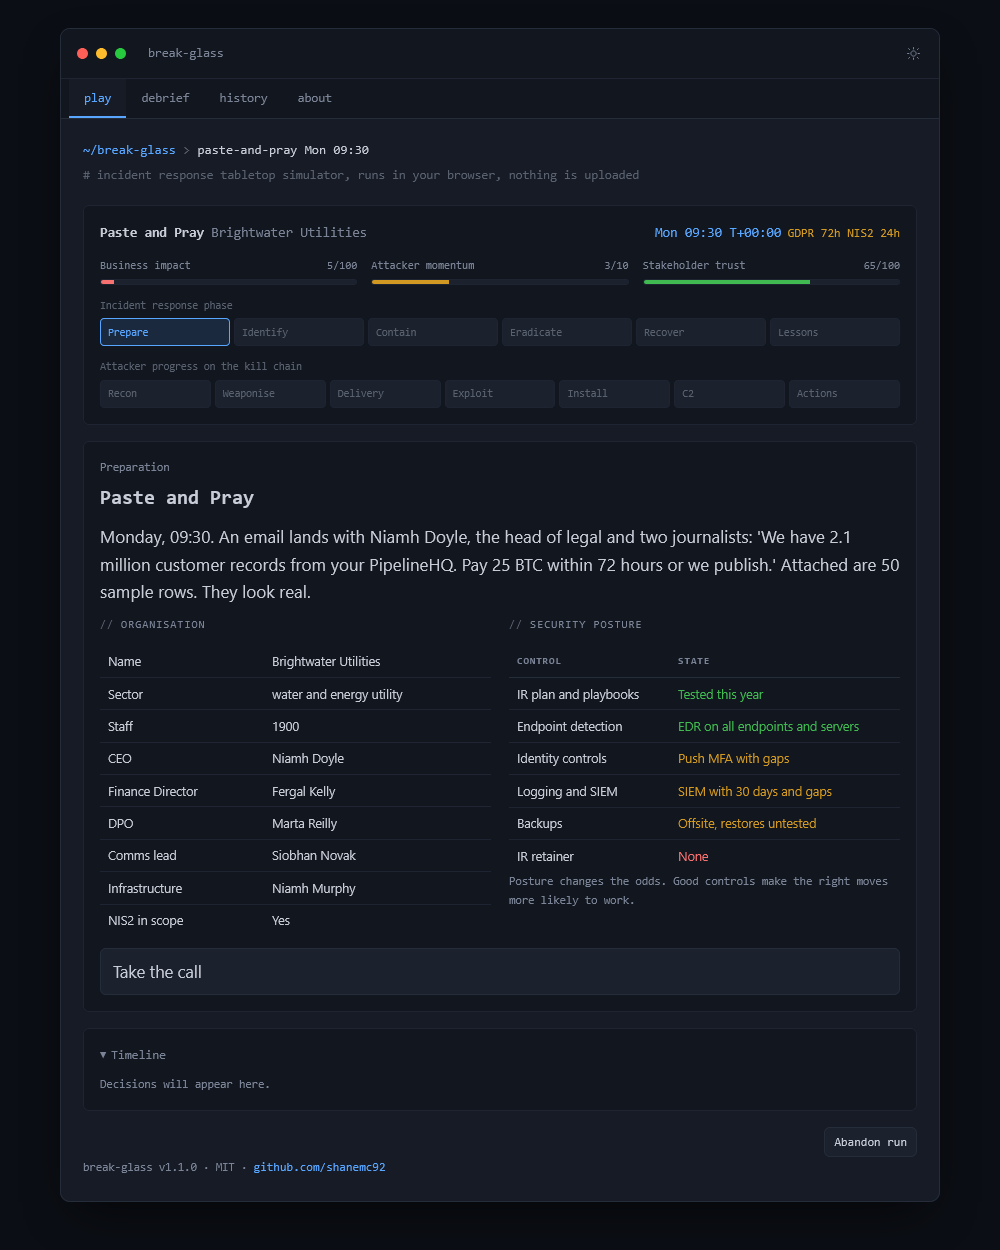
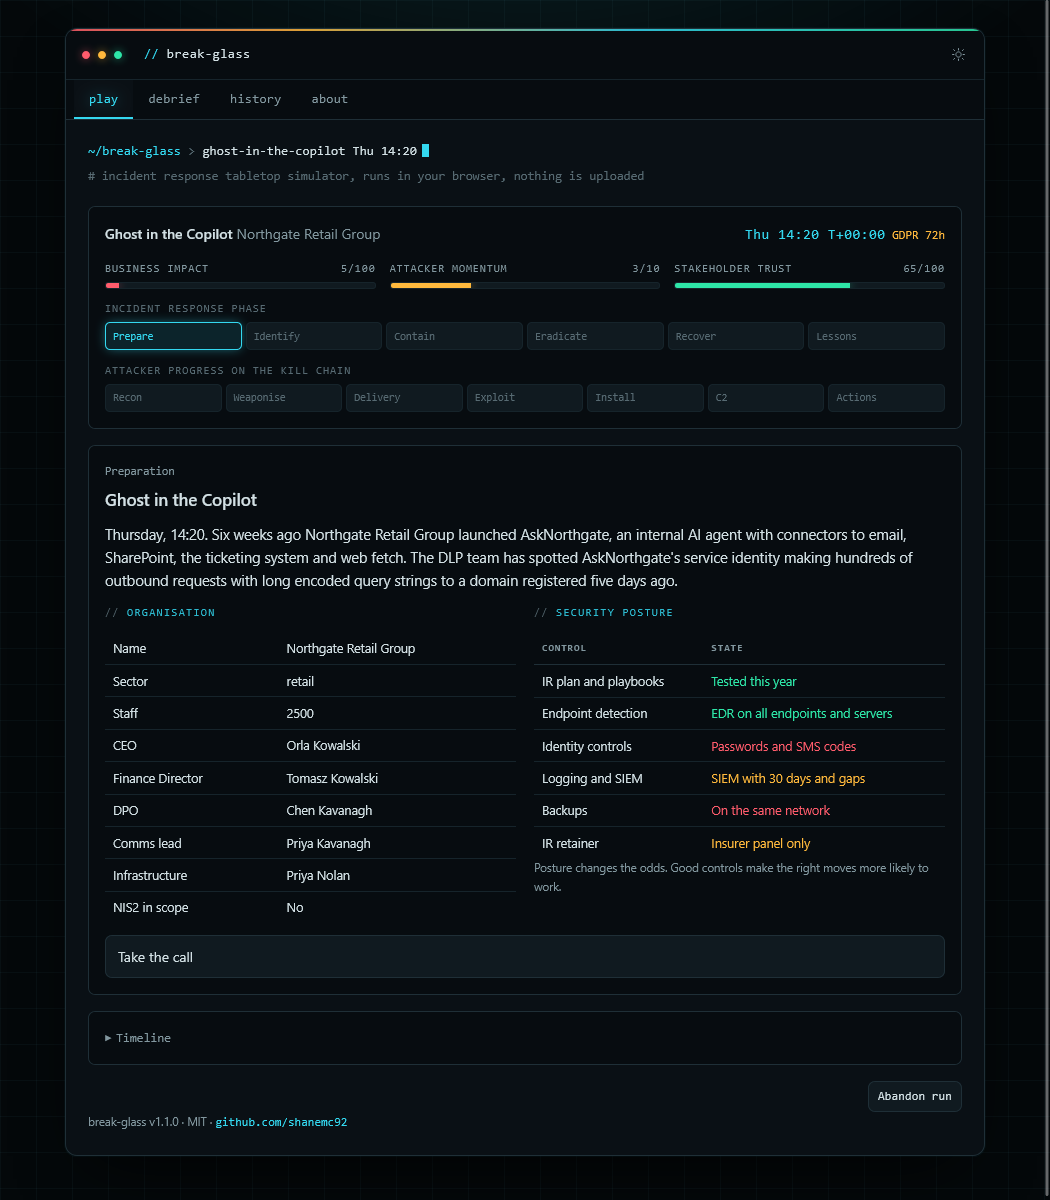
re-theme

diff --git a/index.html b/index.html
@@ -561,6 +561,185 @@ pre.art { margin: 0 0 12px; font-size: 11.5px; color: var(--fg-dim); }
     .debrief .panel { border: none; padding: 0 0 10px; }
     .score-big { font-size: 24px; }
 }
+
+/* ============================================================
+   break-glass theme
+   Its own look, separate from the shared tool themes: modern
+   sans for reading, monospace for the terminal chrome, cyan
+   ops palette on near-black. Loaded last so it wins.
+   ============================================================ */
+:root {
+    --mono: 'JetBrains Mono', 'Fira Code', ui-monospace, 'SF Mono', Consolas, monospace;
+    --sans: system-ui, -apple-system, "Segoe UI", Roboto, "Helvetica Neue", Arial, sans-serif;
+    --font: var(--sans);
+    --wrap: 920px;
+}
+
+/* ---------- Tokens: dark ops (default) ---------- */
+:root,
+html[data-theme="dark"] {
+    color-scheme: dark;
+    --bg:          #04080a;
+    --card:        #0a1015;
+    --sunken:      #070c10;
+    --raised:      #101a20;
+    --line:        #1f2f37;
+    --line-soft:   #16242b;
+    --fg:          #d2e0e4;
+    --fg-dim:      #82979f;
+    --fg-faint:    #576a72;
+    --accent:      #34d8f0;
+    --accent-soft: rgba(52, 216, 240, 0.12);
+    --accent-ink:  #02141a;
+    --toggle-on:   #2ee6a8;
+    --toggle-ink:  #01120c;
+    --bad:         #ff5c6c;
+    --warn:        #ffb93d;
+    --ok:          #2ee6a8;
+    --radius:      12px;
+    --radius-sm:   7px;
+    --shadow:      0 0 0 1px rgba(52, 216, 240, 0.04), 0 26px 70px -26px rgba(0, 0, 0, 0.9);
+    --grid:        rgba(120, 230, 255, 0.035);
+}
+
+/* ---------- Tokens: light ---------- */
+html[data-theme="light"] {
+    color-scheme: light;
+    --bg:          #e6ebed;
+    --card:        #ffffff;
+    --sunken:      #f2f6f7;
+    --raised:      #fafcfd;
+    --line:        #ccd8dc;
+    --line-soft:   #e2eaec;
+    --fg:          #0b1418;
+    --fg-dim:      #4f5d63;
+    --fg-faint:    #7d8c92;
+    --accent:      #0b7186;
+    --accent-soft: rgba(11, 113, 134, 0.10);
+    --accent-ink:  #ffffff;
+    --toggle-on:   #0d7a5b;
+    --toggle-ink:  #ffffff;
+    --bad:         #c32233;
+    --warn:        #9a5a00;
+    --ok:          #0d7a5b;
+    --radius:      12px;
+    --radius-sm:   7px;
+    --shadow:      0 1px 2px rgba(12, 24, 28, 0.06), 0 16px 40px -18px rgba(12, 24, 28, 0.26);
+    --grid:        rgba(11, 113, 134, 0.045);
+}
+
+/* ---------- Page ---------- */
+body {
+    font-family: var(--font);
+    font-size: 14px;
+    background-color: var(--bg);
+    background-image:
+        radial-gradient(820px 400px at 50% -140px, var(--accent-soft), transparent 72%),
+        linear-gradient(var(--grid) 1px, transparent 1px),
+        linear-gradient(90deg, var(--grid) 1px, transparent 1px);
+    background-size: auto, 36px 36px, 36px 36px;
+    background-attachment: fixed;
+}
+
+/* ---------- Terminal chrome: monospace ---------- */
+.titlebar-title, .tab, .prompt, .comment, .section-header span, label.f, th,
+.kicker, .strip div, .strip-label, .chip, .clock, .reg, .meter .lab, .log,
+pre, pre.art, code, .field, .btn, .opt .k, .opt .q, .score-big, .grade,
+.toggle-label, .empty, details summary {
+    font-family: var(--mono);
+}
+.btn { letter-spacing: 0.01em; }
+.note, .narr, .disc, .why, .node-title, .debrief h3, .debrief li, .debrief p { font-family: var(--sans); }
+
+/* ---------- Window: break-glass strip across the top ---------- */
+.container { position: relative; }
+.container::before {
+    content: '';
+    position: absolute;
+    inset: 0 0 auto 0;
+    height: 2px;
+    background: linear-gradient(90deg, var(--bad) 0%, var(--warn) 26%, var(--accent) 62%, var(--ok) 100%);
+    opacity: 0.85;
+    z-index: 2;
+}
+
+/* ---------- Title bar: status LEDs instead of window dots ---------- */
+.titlebar { padding-top: 12px; }
+.dot { width: 8px; height: 8px; }
+.dot:nth-child(1) { background: var(--bad);  box-shadow: 0 0 9px -1px var(--bad); }
+.dot:nth-child(2) { background: var(--warn); box-shadow: 0 0 9px -1px var(--warn); }
+.dot:nth-child(3) { background: var(--ok);   box-shadow: 0 0 9px -1px var(--ok); }
+.titlebar-title { letter-spacing: 0.06em; color: var(--fg); }
+.titlebar-title::before { content: '// '; color: var(--accent); }
+
+/* ---------- Tabs ---------- */
+.tab { letter-spacing: 0.04em; }
+html[data-theme="dark"] .tab[aria-selected="true"] { text-shadow: 0 0 14px rgba(52, 216, 240, 0.45); }
+
+/* ---------- Prompt line with a live cursor ---------- */
+.prompt { color: var(--fg-dim); }
+.prompt .path { color: var(--accent); }
+.prompt #promptTxt { color: var(--fg); }
+.prompt::after {
+    content: '';
+    display: inline-block;
+    width: 7px;
+    height: 13px;
+    margin-left: 5px;
+    vertical-align: -2px;
+    background: var(--accent);
+    animation: bgblink 1.1s steps(1) infinite;
+}
+@keyframes bgblink { 0%, 55% { opacity: 1; } 56%, 100% { opacity: 0; } }
+
+/* ---------- Panels and section labels ---------- */
+.panel { border-color: var(--line); }
+.section-header span { letter-spacing: 0.12em; color: var(--accent); opacity: 0.85; }
+.section-header span::before { content: '// '; color: var(--fg-faint); }
+.node-title { letter-spacing: -0.01em; }
+
+/* ---------- Decisions ---------- */
+.opt { position: relative; }
+.opt .k { font-size: 12px; }
+.opt.chosen::before, .opt:hover:not(:disabled)::before {
+    content: '';
+    position: absolute;
+    left: -1px; top: -1px; bottom: -1px;
+    width: 2px;
+    border-radius: 2px 0 0 2px;
+    background: var(--accent);
+}
+
+/* ---------- Meters, strips, score ---------- */
+.bar { height: 7px; }
+html[data-theme="dark"] .bar.bad i  { box-shadow: 0 0 10px rgba(255, 92, 108, 0.5); }
+html[data-theme="dark"] .bar.warn i { box-shadow: 0 0 10px rgba(255, 185, 61, 0.5); }
+html[data-theme="dark"] .bar.ok i   { box-shadow: 0 0 10px rgba(46, 230, 168, 0.5); }
+.meter .lab { letter-spacing: 0.08em; text-transform: uppercase; }
+.strip-label { letter-spacing: 0.12em; text-transform: uppercase; }
+.strip div { border-radius: 5px; }
+html[data-theme="dark"] .strip .cur { box-shadow: 0 0 12px -2px rgba(52, 216, 240, 0.55); }
+html[data-theme="dark"] .strip .hit { box-shadow: 0 0 12px -2px rgba(255, 92, 108, 0.45); }
+.clock { letter-spacing: 0.04em; }
+.score-big { letter-spacing: -0.02em; }
+html[data-theme="dark"] .score-big { text-shadow: 0 0 22px rgba(52, 216, 240, 0.35); }
+
+/* ---------- Emergency actions ---------- */
+.btn-danger:hover { color: var(--bad); border-color: var(--bad); background: rgba(255, 92, 108, 0.08); }
+
+/* ---------- Print: keep one plain light palette ---------- */
+@media print {
+    :root, html[data-theme="dark"], html[data-theme="light"] {
+        color-scheme: light;
+        --bg: #ffffff; --card: #ffffff; --sunken: #fafafa; --raised: #ffffff;
+        --line: #999999; --line-soft: #cccccc;
+        --fg: #111111; --fg-dim: #555555; --fg-faint: #777777;
+        --accent: #0b4f8a; --accent-soft: transparent; --accent-ink: #ffffff;
+        --shadow: none; --grid: transparent;
+    }
+    body { background-image: none; }
+    .container::before, .prompt::after { display: none; }
+}
 </style>
 </head>
 <body>

diff --git a/src/theme.css b/src/theme.css
@@ -1,0 +1,179 @@
+
+/* ============================================================
+   break-glass theme
+   Its own look, separate from the shared tool themes: modern
+   sans for reading, monospace for the terminal chrome, cyan
+   ops palette on near-black. Loaded last so it wins.
+   ============================================================ */
+:root {
+    --mono: 'JetBrains Mono', 'Fira Code', ui-monospace, 'SF Mono', Consolas, monospace;
+    --sans: system-ui, -apple-system, "Segoe UI", Roboto, "Helvetica Neue", Arial, sans-serif;
+    --font: var(--sans);
+    --wrap: 920px;
+}
+
+/* ---------- Tokens: dark ops (default) ---------- */
+:root,
+html[data-theme="dark"] {
+    color-scheme: dark;
+    --bg:          #04080a;
+    --card:        #0a1015;
+    --sunken:      #070c10;
+    --raised:      #101a20;
+    --line:        #1f2f37;
+    --line-soft:   #16242b;
+    --fg:          #d2e0e4;
+    --fg-dim:      #82979f;
+    --fg-faint:    #576a72;
+    --accent:      #34d8f0;
+    --accent-soft: rgba(52, 216, 240, 0.12);
+    --accent-ink:  #02141a;
+    --toggle-on:   #2ee6a8;
+    --toggle-ink:  #01120c;
+    --bad:         #ff5c6c;
+    --warn:        #ffb93d;
+    --ok:          #2ee6a8;
+    --radius:      12px;
+    --radius-sm:   7px;
+    --shadow:      0 0 0 1px rgba(52, 216, 240, 0.04), 0 26px 70px -26px rgba(0, 0, 0, 0.9);
+    --grid:        rgba(120, 230, 255, 0.035);
+}
+
+/* ---------- Tokens: light ---------- */
+html[data-theme="light"] {
+    color-scheme: light;
+    --bg:          #e6ebed;
+    --card:        #ffffff;
+    --sunken:      #f2f6f7;
+    --raised:      #fafcfd;
+    --line:        #ccd8dc;
+    --line-soft:   #e2eaec;
+    --fg:          #0b1418;
+    --fg-dim:      #4f5d63;
+    --fg-faint:    #7d8c92;
+    --accent:      #0b7186;
+    --accent-soft: rgba(11, 113, 134, 0.10);
+    --accent-ink:  #ffffff;
+    --toggle-on:   #0d7a5b;
+    --toggle-ink:  #ffffff;
+    --bad:         #c32233;
+    --warn:        #9a5a00;
+    --ok:          #0d7a5b;
+    --radius:      12px;
+    --radius-sm:   7px;
+    --shadow:      0 1px 2px rgba(12, 24, 28, 0.06), 0 16px 40px -18px rgba(12, 24, 28, 0.26);
+    --grid:        rgba(11, 113, 134, 0.045);
+}
+
+/* ---------- Page ---------- */
+body {
+    font-family: var(--font);
+    font-size: 14px;
+    background-color: var(--bg);
+    background-image:
+        radial-gradient(820px 400px at 50% -140px, var(--accent-soft), transparent 72%),
+        linear-gradient(var(--grid) 1px, transparent 1px),
+        linear-gradient(90deg, var(--grid) 1px, transparent 1px);
+    background-size: auto, 36px 36px, 36px 36px;
+    background-attachment: fixed;
+}
+
+/* ---------- Terminal chrome: monospace ---------- */
+.titlebar-title, .tab, .prompt, .comment, .section-header span, label.f, th,
+.kicker, .strip div, .strip-label, .chip, .clock, .reg, .meter .lab, .log,
+pre, pre.art, code, .field, .btn, .opt .k, .opt .q, .score-big, .grade,
+.toggle-label, .empty, details summary {
+    font-family: var(--mono);
+}
+.btn { letter-spacing: 0.01em; }
+.note, .narr, .disc, .why, .node-title, .debrief h3, .debrief li, .debrief p { font-family: var(--sans); }
+
+/* ---------- Window: break-glass strip across the top ---------- */
+.container { position: relative; }
+.container::before {
+    content: '';
+    position: absolute;
+    inset: 0 0 auto 0;
+    height: 2px;
+    background: linear-gradient(90deg, var(--bad) 0%, var(--warn) 26%, var(--accent) 62%, var(--ok) 100%);
+    opacity: 0.85;
+    z-index: 2;
+}
+
+/* ---------- Title bar: status LEDs instead of window dots ---------- */
+.titlebar { padding-top: 12px; }
+.dot { width: 8px; height: 8px; }
+.dot:nth-child(1) { background: var(--bad);  box-shadow: 0 0 9px -1px var(--bad); }
+.dot:nth-child(2) { background: var(--warn); box-shadow: 0 0 9px -1px var(--warn); }
+.dot:nth-child(3) { background: var(--ok);   box-shadow: 0 0 9px -1px var(--ok); }
+.titlebar-title { letter-spacing: 0.06em; color: var(--fg); }
+.titlebar-title::before { content: '// '; color: var(--accent); }
+
+/* ---------- Tabs ---------- */
+.tab { letter-spacing: 0.04em; }
+html[data-theme="dark"] .tab[aria-selected="true"] { text-shadow: 0 0 14px rgba(52, 216, 240, 0.45); }
+
+/* ---------- Prompt line with a live cursor ---------- */
+.prompt { color: var(--fg-dim); }
+.prompt .path { color: var(--accent); }
+.prompt #promptTxt { color: var(--fg); }
+.prompt::after {
+    content: '';
+    display: inline-block;
+    width: 7px;
+    height: 13px;
+    margin-left: 5px;
+    vertical-align: -2px;
+    background: var(--accent);
+    animation: bgblink 1.1s steps(1) infinite;
+}
+@keyframes bgblink { 0%, 55% { opacity: 1; } 56%, 100% { opacity: 0; } }
+
+/* ---------- Panels and section labels ---------- */
+.panel { border-color: var(--line); }
+.section-header span { letter-spacing: 0.12em; color: var(--accent); opacity: 0.85; }
+.section-header span::before { content: '// '; color: var(--fg-faint); }
+.node-title { letter-spacing: -0.01em; }
+
+/* ---------- Decisions ---------- */
+.opt { position: relative; }
+.opt .k { font-size: 12px; }
+.opt.chosen::before, .opt:hover:not(:disabled)::before {
+    content: '';
+    position: absolute;
+    left: -1px; top: -1px; bottom: -1px;
+    width: 2px;
+    border-radius: 2px 0 0 2px;
+    background: var(--accent);
+}
+
+/* ---------- Meters, strips, score ---------- */
+.bar { height: 7px; }
+html[data-theme="dark"] .bar.bad i  { box-shadow: 0 0 10px rgba(255, 92, 108, 0.5); }
+html[data-theme="dark"] .bar.warn i { box-shadow: 0 0 10px rgba(255, 185, 61, 0.5); }
+html[data-theme="dark"] .bar.ok i   { box-shadow: 0 0 10px rgba(46, 230, 168, 0.5); }
+.meter .lab { letter-spacing: 0.08em; text-transform: uppercase; }
+.strip-label { letter-spacing: 0.12em; text-transform: uppercase; }
+.strip div { border-radius: 5px; }
+html[data-theme="dark"] .strip .cur { box-shadow: 0 0 12px -2px rgba(52, 216, 240, 0.55); }
+html[data-theme="dark"] .strip .hit { box-shadow: 0 0 12px -2px rgba(255, 92, 108, 0.45); }
+.clock { letter-spacing: 0.04em; }
+.score-big { letter-spacing: -0.02em; }
+html[data-theme="dark"] .score-big { text-shadow: 0 0 22px rgba(52, 216, 240, 0.35); }
+
+/* ---------- Emergency actions ---------- */
+.btn-danger:hover { color: var(--bad); border-color: var(--bad); background: rgba(255, 92, 108, 0.08); }
+
+/* ---------- Print: keep one plain light palette ---------- */
+@media print {
+    :root, html[data-theme="dark"], html[data-theme="light"] {
+        color-scheme: light;
+        --bg: #ffffff; --card: #ffffff; --sunken: #fafafa; --raised: #ffffff;
+        --line: #999999; --line-soft: #cccccc;
+        --fg: #111111; --fg-dim: #555555; --fg-faint: #777777;
+        --accent: #0b4f8a; --accent-soft: transparent; --accent-ink: #ffffff;
+        --shadow: none; --grid: transparent;
+    }
+    body { background-image: none; }
+    .container::before, .prompt::after { display: none; }
+}

diff --git a/build.py b/build.py
@@ -8,7 +8,7 @@ t = t.replace("<title>tool-name</title>", "<title>break-glass</title>")
 t = t.replace('<div class="titlebar-title">tool-name</div>', '<div class="titlebar-title">break-glass</div>')
 t = t.replace("   tool-name\n", "   break-glass\n", 1)
 t = t.replace("    section[hidden] { display: block !important; }\n", "")
-t = t.replace("</style>", src("extra.css") + "</style>", 1)
+t = t.replace("</style>", src("extra.css") + src("theme.css") + "</style>", 1)
 
 a = t.index('    <div class="tabs" role="tablist">')
 b = t.index('        <div class="note">tool-name v1.0.0')
